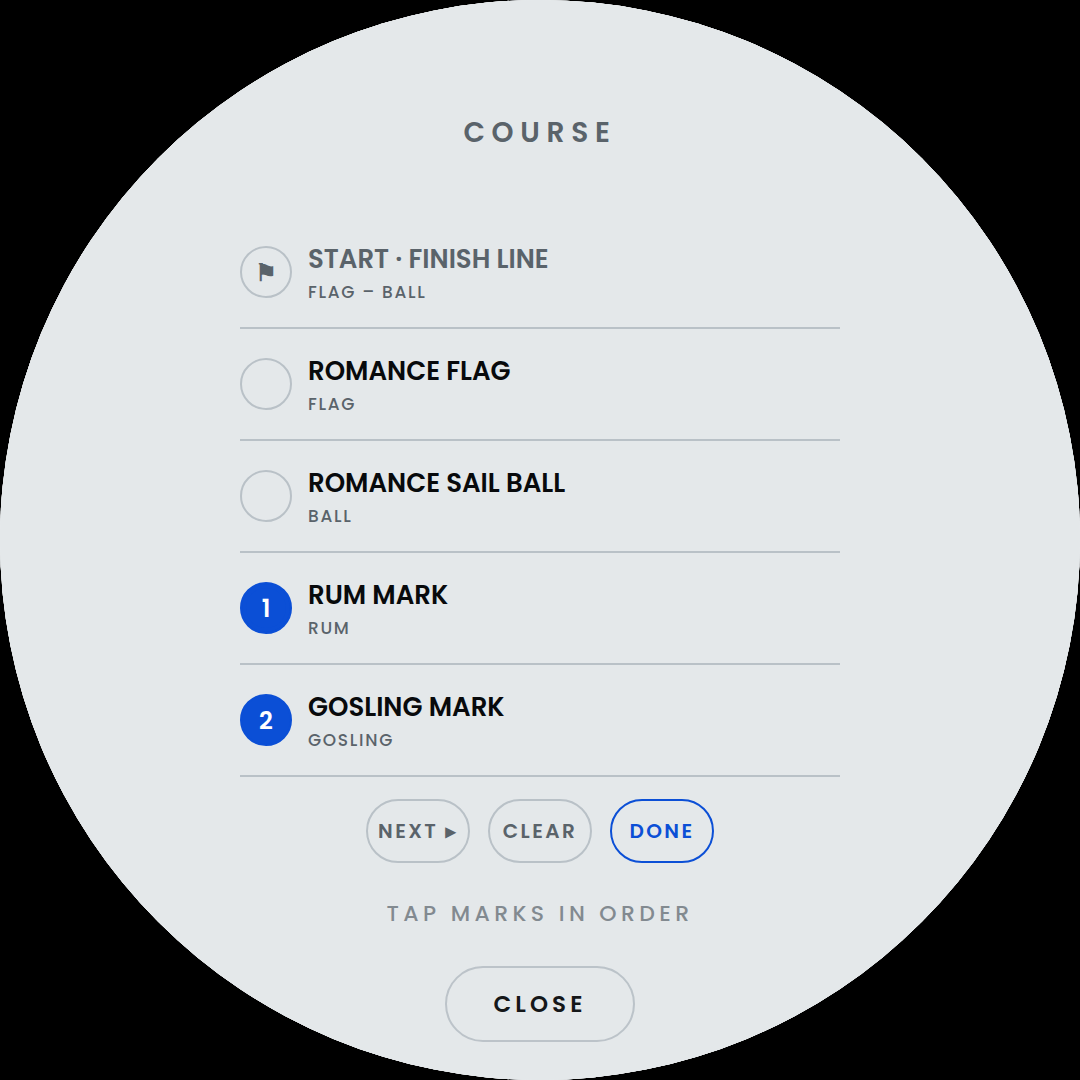
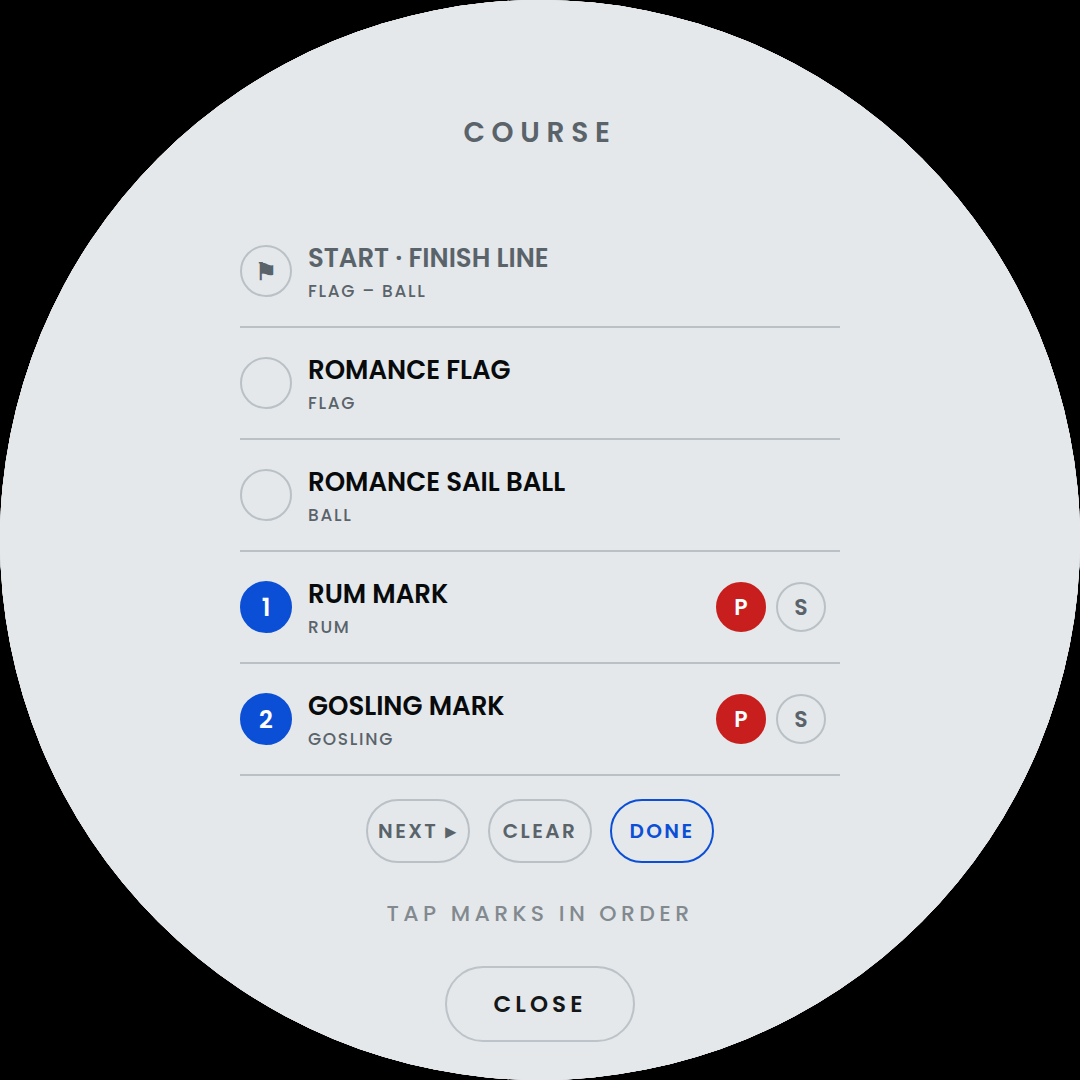
Course: which side to leave each mark, P or S
Every mark in the course gets a P and an S beside it on the course
sheet, port unless set, red and green the way the lights are. A tap on
either sets the side and is not a tap on the row, which would take the
mark out. The side is COURSE.side, by id, so it saves and clears with
the course and goes when the mark does.

It shows on the map by the mark's number, and in the RACE box as you
close on the mark: MARK 1 OF 2 · TO PORT.

Claude-Session: https://claude.ai/code/session_01BmvizJiQLmvpEFfAxzaKX2

diff --git a/confluence_helm.html b/confluence_helm.html
@@ -725,6 +725,13 @@ text{font-variant-numeric:tabular-nums;dominant-baseline:middle}
 .course-row .lib-main b{display:block;font-size:26px;font-weight:600;color:var(--ink)}
 .course-row .lib-main span{font-size:17px;letter-spacing:.1em;color:var(--label)}
 .course-row.line .lib-main b{color:var(--label)}
+/* which side to leave a mark: P red, S green, the way the lights are.
+   Only on rows that are in the course. */
+.course-row .side{display:flex;gap:10px;margin-right:14px;flex:none}
+.sb{width:50px;height:50px;border-radius:25px;border:2px solid var(--hairline);
+  display:flex;align-items:center;justify-content:center;font-size:22px;font-weight:600;color:var(--label)}
+.sb.on{color:#fff;background:var(--port);border-color:var(--port)}
+.sb.on[data-side="S"]{background:var(--stbd);border-color:var(--stbd)}
 .course-bar{display:flex;gap:18px;margin-top:22px}
 .cbtn{height:64px;padding:0 30px;border-radius:32px;border:2px solid var(--hairline);white-space:nowrap;
   background:none;font-family:var(--font);font-size:20px;font-weight:600;
@@ -2732,6 +2739,9 @@ function lineData(){
    starts the course over. */
 let COURSE = JSON.parse(localStorage.getItem('course')||'null') || {marks:[], next:0};
 const courseSave=()=>localStorage.setItem('course',JSON.stringify(COURSE));
+/* Which side to leave each mark, by id: 'P' or 'S', port unless set.
+   Lives in COURSE so it is saved and cleared with the course. */
+const markSide=id=>(COURSE.side&&COURSE.side[id])||'P';
 const COURSE_ROUND={near:40, away:60};
 let courseNear=false;
 function courseNext(){
@@ -2864,7 +2874,7 @@ function paintRace(met){
     const i=COURSE.next, N=COURSE.marks.length;
     if(n.id==='finish'){ wText('rp-r2-l', N?'LAST LEG':'NO COURSE SET'); wText('rp-r2','FINISH LINE'); }
     else { const after=i+1<N ? markOf(COURSE.marks[i+1]) : null;
-      wText('rp-r2-l', 'MARK '+(i+1)+' OF '+N);
+      wText('rp-r2-l', 'MARK '+(i+1)+' OF '+N+' · TO '+(markSide(n.id)==='P'?'PORT':'STBD'));
       wText('rp-r2', n.hdr+(after ? ' · THEN '+after.hdr : ' · THEN FINISH')); }
   }
 }
@@ -6249,7 +6259,9 @@ function drawMap(pts){
     out+=`<circle class="t-mark" cx="${x.toFixed(1)}" cy="${y.toFixed(1)}" r="14"
            fill="${on?'var(--accent)':'var(--panel)'}" stroke="var(--accent)" stroke-width="4"/>
           <text x="${x.toFixed(1)}" y="${(y+1).toFixed(1)}" text-anchor="middle"
-           font-size="17" font-weight="700" fill="${on?'#fff':'var(--accent)'}">${i+1}</text>`; });
+           font-size="17" font-weight="700" fill="${on?'#fff':'var(--accent)'}">${i+1}</text>
+          <text x="${(x+19).toFixed(1)}" y="${(y-13).toFixed(1)}" text-anchor="middle"
+           font-size="15" font-weight="700" fill="${markSide(id)==='P'?'var(--port)':'var(--stbd)'}">${markSide(id)}</text>`; });
   if(trackLive())                                   /* pulsing head while live */
     out+=`<circle cx="${X[L].toFixed(1)}" cy="${Y[L].toFixed(1)}" r="24"
            fill="none" stroke="var(--port)" stroke-width="3" stroke-opacity=".55"/>`;
@@ -6769,8 +6781,11 @@ function renderCourse(){
   box.innerHTML=lineRow+MARKS.map(m=>{
     const i=COURSE.marks.indexOf(m.id);
     const cls='lib-row course-row'+(i>=0?' in':'')+(i===COURSE.next?' next':'');
+    const sd=markSide(m.id);
+    const side= i<0 ? '' : `<div class="side"><span class="sb${sd==='P'?' on':''}" data-side="P">P</span>`
+                          +`<span class="sb${sd==='S'?' on':''}" data-side="S">S</span></div>`;
     return `<div class="${cls}" data-mark="${m.id}"><div class="seq">${i>=0?i+1:''}</div>
-      <div class="lib-main"><b>${m.name}</b><span>${m.hdr}</span></div></div>`; }).join('');
+      <div class="lib-main"><b>${m.name}</b><span>${m.hdr}</span></div>${side}</div>`; }).join('');
 }
 function openCourse(){ $('t-course').classList.add('on'); renderCourse(); }
 $('trk-course').addEventListener('click',()=>{
@@ -6778,10 +6793,16 @@ $('trk-course').addEventListener('click',()=>{
 $('course-list').addEventListener('click',e=>{
   if(courseDragged()) return;                 /* a scroll, not a choice */
   const row=e.target.closest('.course-row'); if(!row) return;
+  /* P or S on a mark in the course sets its side; it is not a tap on
+     the row, which would take the mark out. */
+  const sb=e.target.closest('.sb');
+  if(sb){ COURSE.side=COURSE.side||{}; COURSE.side[row.dataset.mark]=sb.dataset.side;
+    courseSave(); renderCourse(); drawMap(shownTrack()); return; }
   if(row.dataset.line){ if(lineEnds().pinged){ LINE={}; saveLine();
       ['pin','boat'].forEach(k=>$('ping-'+k).classList.remove('set')); } }
   else{ const id=row.dataset.mark, i=COURSE.marks.indexOf(id);
-    if(i>=0){ COURSE.marks.splice(i,1); if(COURSE.next>COURSE.marks.length) COURSE.next=COURSE.marks.length; }
+    if(i>=0){ COURSE.marks.splice(i,1); if(COURSE.next>COURSE.marks.length) COURSE.next=COURSE.marks.length;
+              if(COURSE.side) delete COURSE.side[id]; }
     else COURSE.marks.push(id);
     courseSave(); }
   renderCourse(); drawMap(shownTrack()); });

diff --git a/docs/readings.md b/docs/readings.md
@@ -214,10 +214,14 @@ in view under it. What fills the other slots depends on where you are:
 |---|---|
 | `DIST` | range to the next mark, metres under 1000 and nautical miles beyond |
 | `BRG` | true bearing to it, to steer against COG |
-| `MARK 2 OF 5` | which mark, and what follows it: `RUM · THEN GOSLING`; on the last leg, `FINISH LINE` |
+| `MARK 2 OF 5 · TO PORT` | which mark, which side to leave it, and what follows it: `RUM · THEN GOSLING`; on the last leg, `FINISH LINE` |
 
-The next mark comes from the course set in the Tracks app; with no
-course set, the only leg is back to the line. Target speed and the wind
+The next mark comes from the course set in the Tracks app: tap marks
+on the course sheet in the order you will sail them, and each one you
+add gets a `P` and an `S` beside it for the side you will leave it —
+port unless you say otherwise, red and green the way the lights are.
+The side shows on the map by the mark's number and in the box as you
+close on it. With no course set, the only leg is back to the line. Target speed and the wind
 shift are not in the box: they are readings, picked into any slot like
 the rest.
 
